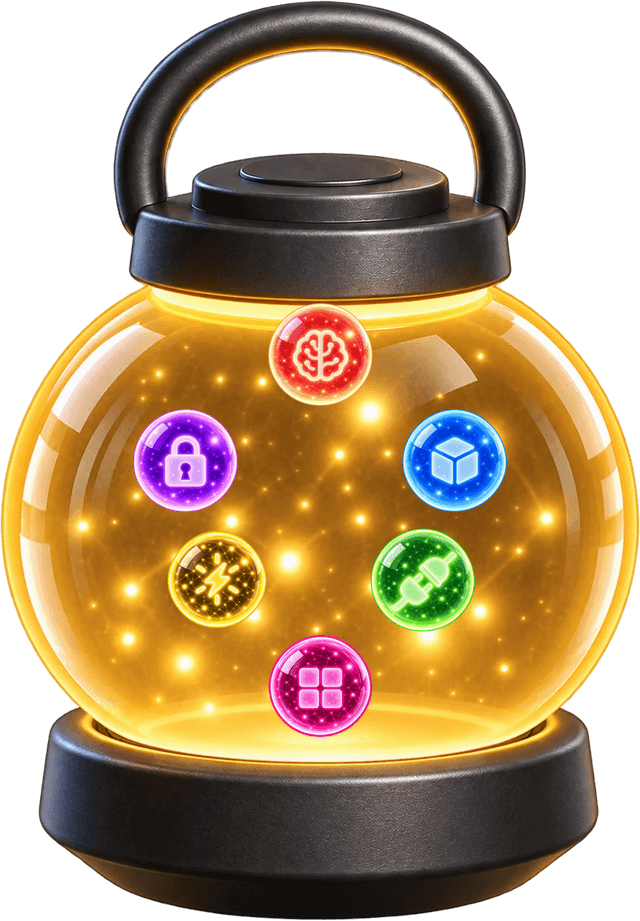
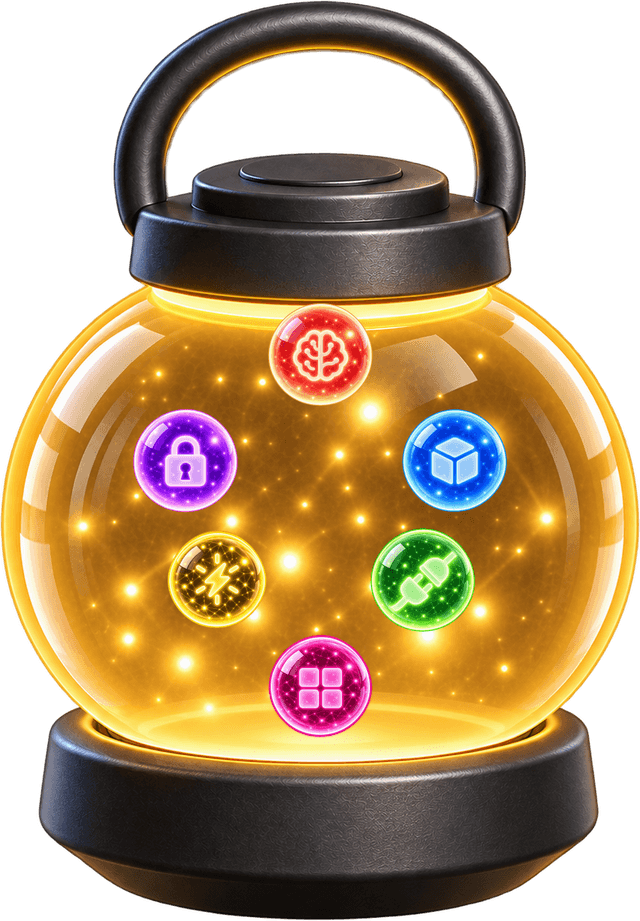
Replace the homepage lantern artwork (#2418)
* Replace the homepage lantern with the updated render.

The new still shares the existing glass outline, so it stays on the
863×1242 shell and frame layers. Orb centres, leader geometry, and
motion bounds are unchanged, and the Open Graph rest pose is
recomposited from those same centres.

* Paint the homepage lantern as one image and clip the orbs to the frame.

The shell and frame split opened a page-colored seam on the metal. One still keeps that edge closed, and the orb overlay is clipped to the opening under the cap and above the base.

* Clip the lantern orbs along the inner edge of the frame.

The ellipse sat about 17px into the cap and the base. The overlay now follows the glow where it meets the metal.

---------

diff --git a/packages/worker/universal/landing-lantern.ts b/packages/worker/universal/landing-lantern.ts
@@ -1,12 +1,13 @@
 import { type LandingHomePrimitive } from '#universal/landing-home-copy.ts'
 
 /**
- * Six-orb lantern for the homepage primitives section. The shell (glass
- * and glow), the metal frame, and each primitive orb are separate layers,
- * keyed to a `landingHomePrimitives` id so the copy stays the single source
- * of words and definitions. Orb centres are percentages of the shell.
- * Colors live in `styles.css` as `--primitive-<id>` so the orbit lights
- * and the leader lines share one palette.
+ * Six-orb lantern for the homepage primitives section. The lantern is one
+ * still (glass, glow, and metal together). Each primitive orb is an overlay
+ * clipped to the opening inside the frame, keyed to a `landingHomePrimitives`
+ * id so the copy stays the single source of words and definitions. Orb
+ * centres are percentages of that still. Colors live in `styles.css` as
+ * `--primitive-<id>` so the orbit lights and the leader lines share one
+ * palette.
  */
 
 export type LandingPrimitiveId = LandingHomePrimitive['id']
@@ -20,29 +21,17 @@ export const landingPrimitiveIds = [
 	'apps',
 ] as const satisfies ReadonlyArray<LandingPrimitiveId>
 
-/** Glass and glow only. The metal cap, handle, and base are a second
- *  layer (`landingLanternFrame`) so they paint above the orbs. */
+/** The whole lantern. Metal and glass stay in one image so the frame edge
+ *  cannot open a seam against the page. */
 export const landingLanternImage = {
-	src: '/images/lantern/kody-primitives-lantern-shell-480.webp',
+	src: '/images/lantern/kody-primitives-lantern-480.webp',
 	srcSet: [
-		'/images/lantern/kody-primitives-lantern-shell-480.webp 480w',
-		'/images/lantern/kody-primitives-lantern-shell.webp 863w',
+		'/images/lantern/kody-primitives-lantern-480.webp 480w',
+		'/images/lantern/kody-primitives-lantern.webp 863w',
 	].join(', '),
 	sizes: '(max-width: 800px) 58vw, 17rem',
 	width: 863,
 	height: 1242,
-} as const
-
-/** Metal cap, handle, and base, aligned to `landingLanternImage`. */
-export const landingLanternFrame = {
-	src: '/images/lantern/kody-primitives-lantern-frame-480.webp',
-	srcSet: [
-		'/images/lantern/kody-primitives-lantern-frame-480.webp 480w',
-		'/images/lantern/kody-primitives-lantern-frame.webp 863w',
-	].join(', '),
-	sizes: landingLanternImage.sizes,
-	width: landingLanternImage.width,
-	height: landingLanternImage.height,
 } as const
 
 /** Orb cutouts. Each sprite is centered on its disc in the shell. */
@@ -55,21 +44,68 @@ export const landingLanternOrbArt = {
 	apps: '/images/lantern/kody-primitives-orb-apps.webp',
 } as const satisfies Record<LandingPrimitiveId, string>
 
-/** Glass globe in the shell: centre as fractions of width and height,
- *  radius as a fraction of width. Used to fade leaders inside the glass. */
+/** Glass globe: centre as fractions of width and height, radius as a
+ *  fraction of width. Used to fade leaders inside the glass. */
 export const landingLanternGlass = { x: 0.5, y: 0.545, r: 0.46 } as const
 
 /**
- * Glass the orbs may paint on, as fractions of lantern height. Tighter than
- * the outer metal (`landingLanternAperture` in the motion module): the dark
- * lip under the cap and on the pedestal is in the shell, behind the orbs,
- * so the frame does not cover it. Measured where that lip gives way to the
- * bright glass.
+ * Inner edge of the frame, as fractions of the still. Traced where the
+ * glass glow meets the metal: under the cap, around the globe, and above
+ * the base. The orb overlay stops on this line.
  */
-const landingLanternGlowAperture = {
-	top: 0.326,
-	bottom: 0.822,
-} as const
+const landingLanternFrameOpening = [
+	[0.021, 0.49],
+	[0.042, 0.451],
+	[0.059, 0.427],
+	[0.101, 0.383],
+	[0.143, 0.353],
+	[0.163, 0.341],
+	[0.226, 0.313],
+	[0.243, 0.312],
+	[0.302, 0.322],
+	[0.389, 0.329],
+	[0.448, 0.332],
+	[0.553, 0.332],
+	[0.66, 0.326],
+	[0.72, 0.32],
+	[0.758, 0.312],
+	[0.772, 0.312],
+	[0.834, 0.34],
+	[0.866, 0.358],
+	[0.907, 0.39],
+	[0.925, 0.407],
+	[0.952, 0.442],
+	[0.98, 0.494],
+	[0.98, 0.641],
+	[0.963, 0.676],
+	[0.928, 0.721],
+	[0.9, 0.746],
+	[0.869, 0.769],
+	[0.866, 0.787],
+	[0.845, 0.795],
+	[0.841, 0.799],
+	[0.838, 0.799],
+	[0.834, 0.793],
+	[0.827, 0.794],
+	[0.768, 0.808],
+	[0.681, 0.82],
+	[0.528, 0.827],
+	[0.435, 0.826],
+	[0.351, 0.822],
+	[0.292, 0.817],
+	[0.24, 0.81],
+	[0.198, 0.801],
+	[0.177, 0.794],
+	[0.163, 0.792],
+	[0.16, 0.8],
+	[0.153, 0.8],
+	[0.129, 0.787],
+	[0.125, 0.765],
+	[0.09, 0.739],
+	[0.052, 0.699],
+	[0.038, 0.68],
+	[0.021, 0.647],
+] as const satisfies ReadonlyArray<readonly [number, number]>
 
 /**
  * Orb centres (percent of width and height), shared disc diameter (percent
@@ -95,63 +131,14 @@ export const landingLanternOrbs = [
 }>
 
 /**
- * Clip for the orb layer. The sprite halo, pulse ring, and hover bloom all
- * paint with the discs, and the shell lip sits behind them, so the clip has
- * to cover the glow and not only the hard disc. Polygon of the glass ellipse
- * cut by `landingLanternGlowAperture`, in percentages of the lantern box.
+ * Clip for the orb overlay. The sprite halo, pulse ring, and hover bloom
+ * paint with the discs, so the clip is the opening inside the frame.
  */
 export function landingLanternOrbClipPath() {
-	const { width, height } = landingLanternImage
-	const rx = landingLanternGlass.r
-	const ry = landingLanternGlass.r * (width / height)
-	const { x: cx, y: cy } = landingLanternGlass
-	const top = landingLanternGlowAperture.top
-	const bottom = landingLanternGlowAperture.bottom
-	const points: Array<readonly [number, number]> = []
-	const nyTop = (top - cy) / ry
-	const nyBottom = (bottom - cy) / ry
-	const xOnEllipse = (ny: number, side: -1 | 1) =>
-		cx + side * Math.sqrt(Math.max(0, 1 - ny * ny)) * rx
-	const topLeft: readonly [number, number] = [xOnEllipse(nyTop, -1), top]
-	const topRight: readonly [number, number] = [xOnEllipse(nyTop, 1), top]
-	const bottomRight: readonly [number, number] = [
-		xOnEllipse(nyBottom, 1),
-		bottom,
-	]
-	const bottomLeft: readonly [number, number] = [
-		xOnEllipse(nyBottom, -1),
-		bottom,
-	]
-	points.push(topLeft, topRight)
-	pushArc(points, topRight, bottomRight, cx, cy, rx, ry)
-	points.push(bottomRight, bottomLeft)
-	pushArc(points, bottomLeft, topLeft, cx, cy, rx, ry)
 	const percent = (value: number) => `${Math.round(value * 1000) / 10}%`
-	return `polygon(${points
+	return `polygon(${landingLanternFrameOpening
 		.map(([x, y]) => `${percent(x)} ${percent(y)}`)
 		.join(',')})`
-}
-
-/** Walk the glass ellipse clockwise from `from` to `to`, not repeating ends. */
-function pushArc(
-	points: Array<readonly [number, number]>,
-	from: readonly [number, number],
-	to: readonly [number, number],
-	cx: number,
-	cy: number,
-	rx: number,
-	ry: number,
-) {
-	const angle = (point: readonly [number, number]) =>
-		Math.atan2((point[1] - cy) / ry, (point[0] - cx) / rx)
-	let start = angle(from)
-	let end = angle(to)
-	if (end <= start) end += Math.PI * 2
-	const steps = 10
-	for (let step = 1; step < steps; step++) {
-		const theta = start + ((end - start) * step) / steps
-		points.push([cx + Math.cos(theta) * rx, cy + Math.sin(theta) * ry])
-	}
 }
 
 /** CSS custom property that carries a primitive's color. */

diff --git a/packages/worker/public/styles.css b/packages/worker/public/styles.css
@@ -1125,7 +1125,7 @@ html.is-settled {
    words listed beside it, then the learn-more line. Leader lines run orb to
    word inside the stage on wide screens (measured from layout by
    `landing-primitives.tsx`); narrow screens stack and drop them. Stacking
-   inside the stage: lantern shell (0) < leaders (1) < orb layers and words
+   inside the stage: lantern (0) < leaders (1) < orb layers and words
    (2) < popover (4). */
 .landing-primitives {
 	position: relative;
@@ -1153,28 +1153,16 @@ html.is-settled {
 	margin: 0;
 }
 
-.landing-lantern-art,
-.landing-lantern-frame {
+.landing-lantern-art {
 	position: absolute;
 	inset: 0;
+	z-index: 0;
 	display: block;
 	width: 100%;
 	height: 100%;
 	object-fit: contain;
 	pointer-events: none;
-}
-
-.landing-lantern-art {
-	z-index: 0;
-	/* Shadow stays on the glass. A filter on the frame would paint that
-	   blur over the orbs, because the frame sits above them. */
 	filter: drop-shadow(0 1.2rem 2.2rem oklch(0.75 0.15 75 / 0.28));
-}
-
-/* Cap, handle, and base. Above the orbs so a disc that reaches the
-   metal reads as inside the glass instead of painted on the frame. */
-.landing-lantern-frame {
-	z-index: 3;
 }
 
 /* Orb cutout, centered in the hotspot. Width is the sprite as a share
@@ -1192,9 +1180,8 @@ html.is-settled {
 	-webkit-user-drag: none;
 }
 
-/* Sprite halos, pulse rings, and hover bloom live on this layer. The
-   shell's dark lip is behind it (the frame only covers the outer metal),
-   so the layer is clipped to the glass. The path is set from
+/* Sprite halos, pulse rings, and hover bloom live on this layer, clipped
+   to the opening inside the frame. The path is set from
    `landingLanternOrbClipPath`. */
 .landing-lantern-orbs {
 	position: absolute;

diff --git a/packages/worker/universal/landing-lantern.node.test.ts b/packages/worker/universal/landing-lantern.node.test.ts
@@ -30,24 +30,28 @@ test('lantern orbs cover every homepage primitive exactly once, in copy order', 
 		expect(orb.art / orb.size).toBeLessThan(1.08)
 	}
 	expect(landingLanternImage.srcSet).toContain(landingLanternImage.src)
-	expect(landingLanternImage.src).toContain('lantern-shell')
+	expect(landingLanternImage.src).toContain('kody-primitives-lantern-480.webp')
 	expect(landingLanternImage.width).toBe(863)
 	expect(landingLanternImage.height).toBe(1242)
 	expect(landingPrimitiveColorVar('triggers')).toBe('var(--primitive-triggers)')
 	expect(landingPrimitiveColorVar('apps')).toBe('var(--primitive-apps)')
 })
 
-test('orb clip keeps glow off the shell lip the frame does not cover', () => {
+test('orb clip follows the metal cap and base and stays inside the glass', () => {
 	const clip = landingLanternOrbClipPath()
 	expect(clip.startsWith('polygon(')).toBe(true)
-	// Dark lip under the cap (between the outer metal and the bright glass).
-	expect(clipContains(clip, 50, 31.8)).toBe(false)
-	// Dark lip on the pedestal.
-	expect(clipContains(clip, 50, 83.8)).toBe(false)
+	// On the cap, above the lip.
+	expect(clipContains(clip, 50, 30)).toBe(false)
+	// Just inside the glass, under the cap.
+	expect(clipContains(clip, 50, 34)).toBe(true)
+	// On the base.
+	expect(clipContains(clip, 50, 85)).toBe(false)
+	expect(clipContains(clip, 50, 82)).toBe(true)
 	expect(clipContains(clip, 50, 38.5)).toBe(true)
 	expect(clipContains(clip, 50, 74.5)).toBe(true)
 	expect(clipContains(clip, 50, 54.5)).toBe(true)
 	expect(clipContains(clip, 2, 54.5)).toBe(false)
+	expect(clipContains(clip, 98, 54.5)).toBe(false)
 })
 
 function clipContains(clip: string, x: number, y: number) {

diff --git a/packages/worker/client/routes/landing-lantern.tsx b/packages/worker/client/routes/landing-lantern.tsx
@@ -6,7 +6,6 @@ import {
 	type LandingHomePrimitive,
 } from '#universal/landing-home-copy.ts'
 import {
-	landingLanternFrame,
 	landingLanternImage,
 	landingLanternOrbArt,
 	landingLanternOrbClipPath,
@@ -16,10 +15,10 @@ import {
 } from '#universal/landing-lantern.ts'
 
 /**
- * Six-orb lantern beside the primitives sentence. The shell is static.
- * Each orb image sits inside its hotspot button, centered on the painted
- * disc, so the highlight ring, the disc, and the leader rim share one
- * centre while the button moves.
+ * Six-orb lantern beside the primitives sentence. The lantern still is one
+ * image. Each orb sits in an overlay clipped to the opening inside the
+ * frame, centered on its hotspot, so the highlight ring, the disc, and the
+ * leader rim share one centre while the button moves.
  */
 
 /** Hover opens for mice and pens only. A touch tap fires synthetic enter
@@ -147,16 +146,6 @@ export function LandingLantern(handle: Handle<LandingLanternProps>) {
 						)
 					})}
 				</div>
-				<img
-					src={landingLanternFrame.src}
-					srcSet={landingLanternFrame.srcSet}
-					sizes={landingLanternFrame.sizes}
-					width={landingLanternFrame.width}
-					height={landingLanternFrame.height}
-					decoding="async"
-					alt=""
-					class="landing-lantern-frame"
-				/>
 			</figure>
 		)
 	}

diff --git a/packages/worker/client/routes/landing-primitives.node.test.ts b/packages/worker/client/routes/landing-primitives.node.test.ts
@@ -25,13 +25,10 @@ test('primitives sentence pairs lantern orbs with words and ships empty leaders'
 	expect(html.match(/aria-expanded="false"/g)).toHaveLength(
 		landingHomePrimitives.length * 2,
 	)
-	expect(html).toContain('kody-primitives-lantern-shell-480.webp')
-	expect(html).toContain('kody-primitives-lantern-shell.webp 863w')
-	expect(html).toContain('kody-primitives-lantern-frame-480.webp')
-	expect(html).toContain('kody-primitives-lantern-frame.webp 863w')
-	expect(html.indexOf('landing-lantern-orbs')).toBeLessThan(
-		html.indexOf('landing-lantern-frame'),
-	)
+	expect(html).toContain('kody-primitives-lantern-480.webp')
+	expect(html).toContain('kody-primitives-lantern.webp 863w')
+	expect(html).not.toContain('kody-primitives-lantern-frame')
+	expect(html).not.toContain('landing-lantern-frame')
 	expect(html).toContain(`clip-path: ${landingLanternOrbClipPath()}`)
 	expect(html.match(/class="landing-lantern-orb-art"/g)).toHaveLength(
 		landingLanternOrbs.length,
